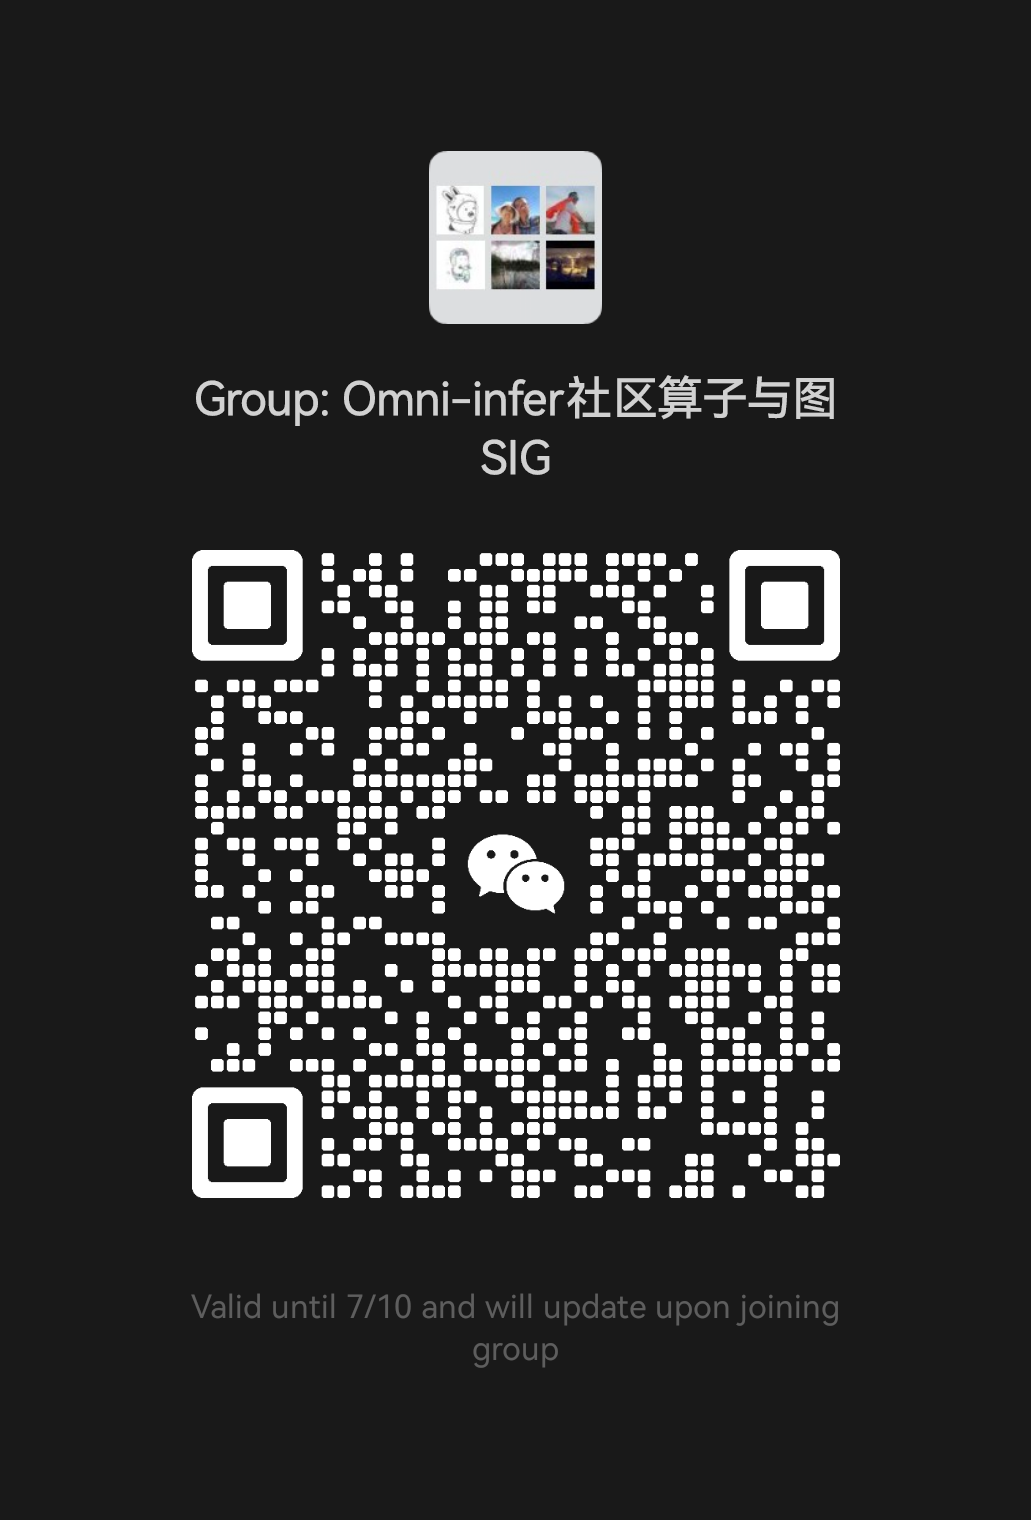
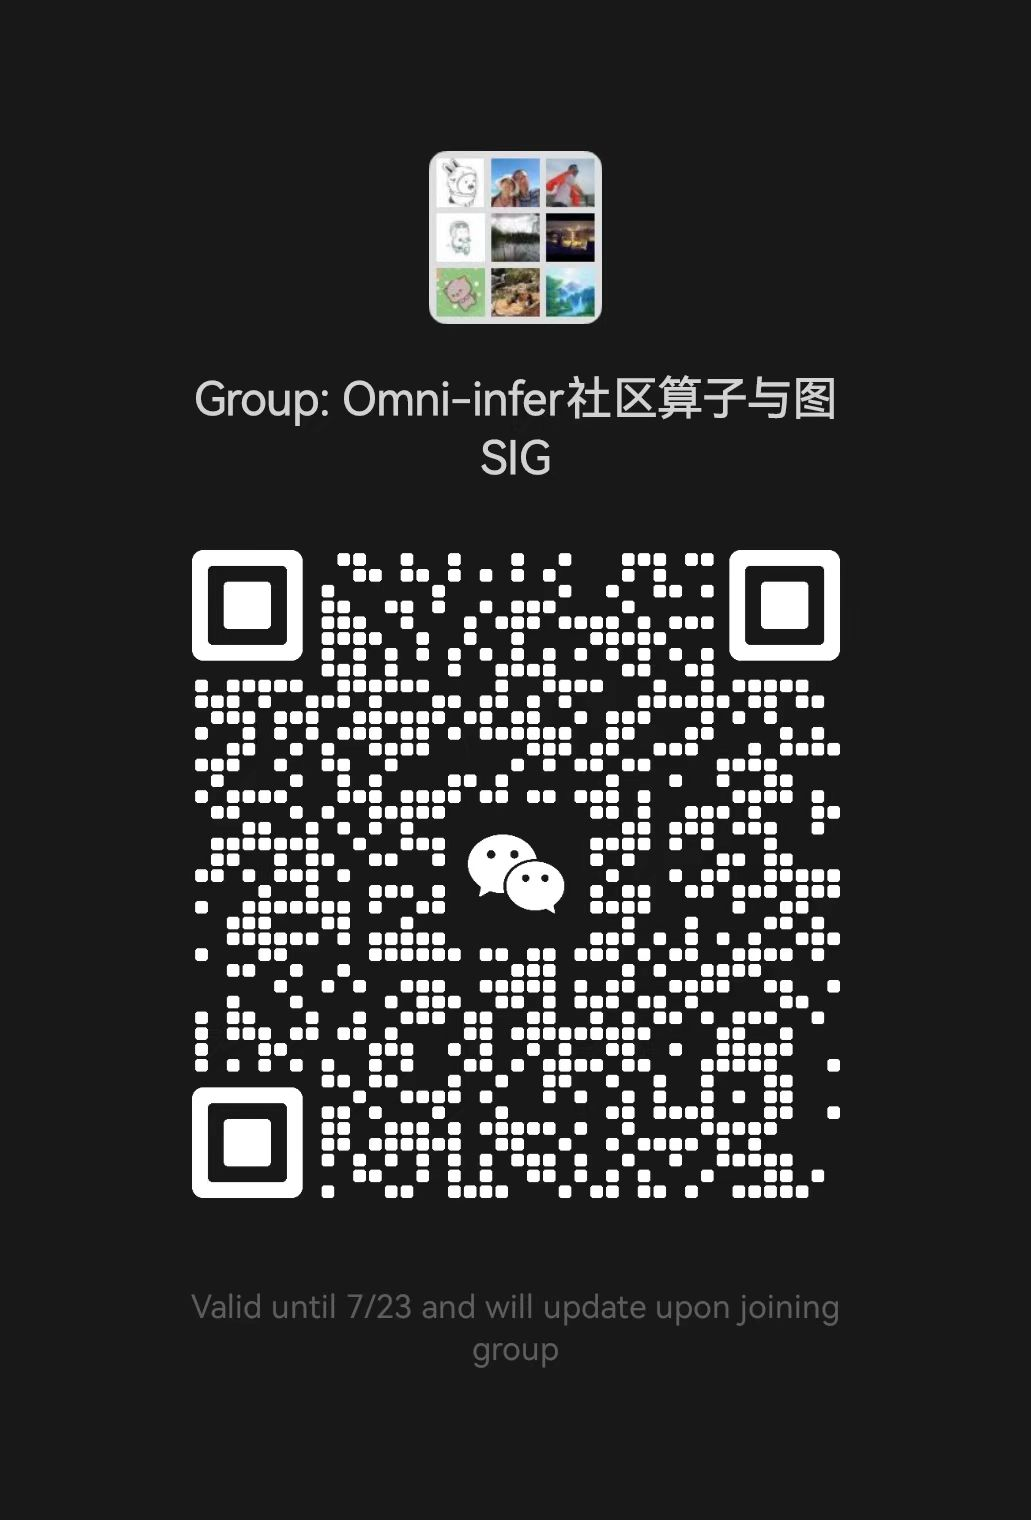
update ops-graph wechat qr code and add 728 meetup info

Changed region(s): [[0.1862, 0.3401, 0.838, 0.8039], [0.4035, 0.0928, 0.5897, 0.2164], [0.3725, 0.8349, 0.4035, 0.8658]]

diff --git a/events/README.md b/events/README.md
@@ -7,4 +7,5 @@
 
 ## 社区Meetup
 
-TBD
+我们计划在7月28号下午举办一次社区Meetup，欢迎大家报名参加。地点在徐汇区的模速空间。
+![image](figures/728Meetup.png)
